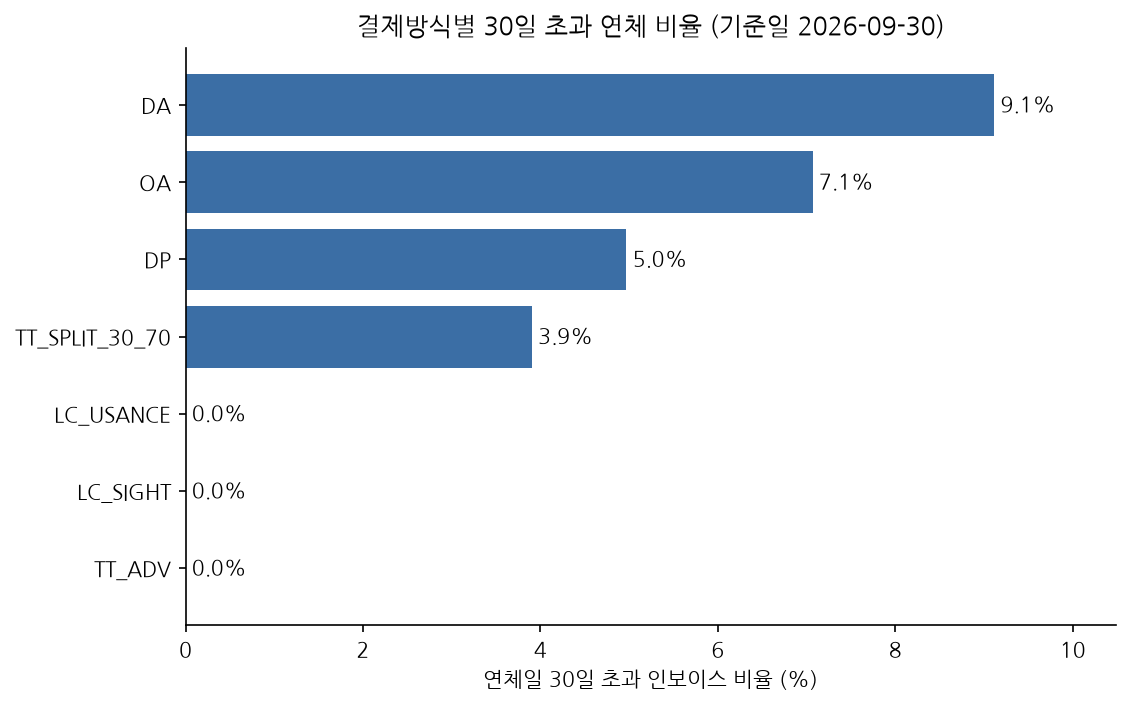
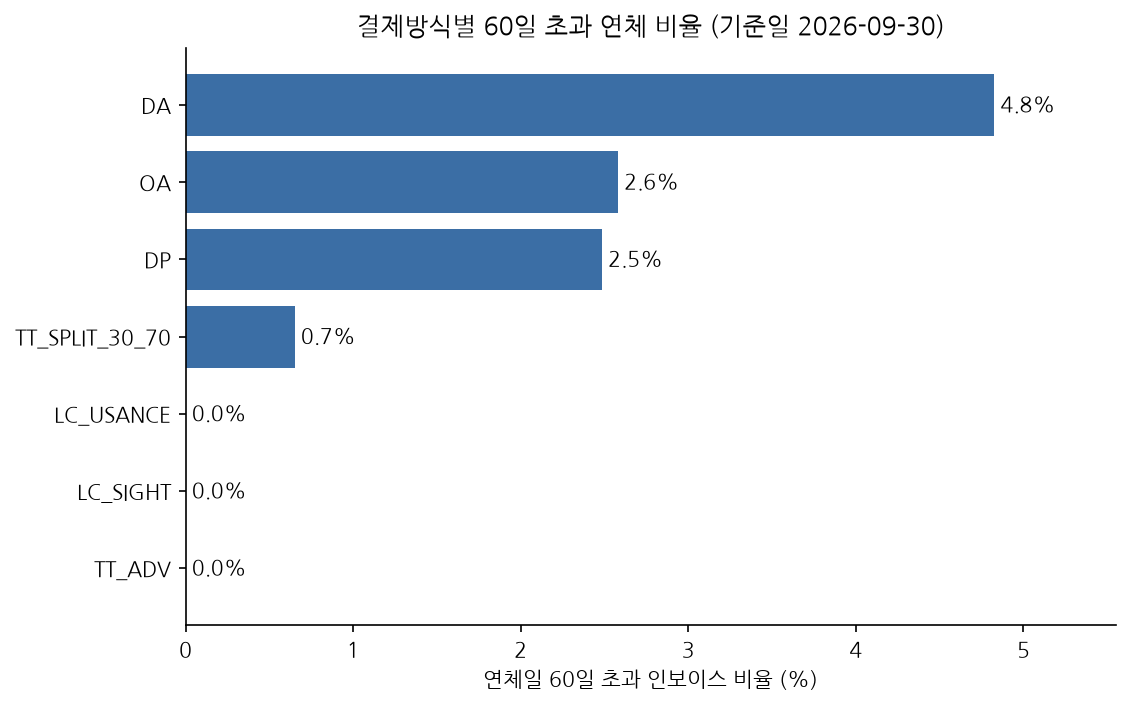
1일차: 연체 기준을 30일 초과에서 60일 초과로 변경
왜: 경영진 보고 기준 통일

diff --git a/scripts/ar_by_method.py b/scripts/ar_by_method.py
@@ -11,7 +11,7 @@ import pandas as pd
 from matplotlib import font_manager
 
 AS_OF = pd.Timestamp("2026-09-30")
-LATE_DAYS = 30
+LATE_DAYS = 60
 
 ROOT = Path(__file__).resolve().parent.parent
 SRC = ROOT / "data/day1/d1_invoices.csv"
@@ -23,7 +23,7 @@ COL_METHOD = "결제방식"
 COL_COUNT = "인보이스 수"
 COL_TOTAL = "금액 합계(USD)"
 COL_OPEN = "미결(status=open) 금액(USD)"
-COL_LATE = "30일 초과 연체 비율"
+COL_LATE = f"{LATE_DAYS}일 초과 연체 비율"
 
 
 def load() -> pd.DataFrame:
